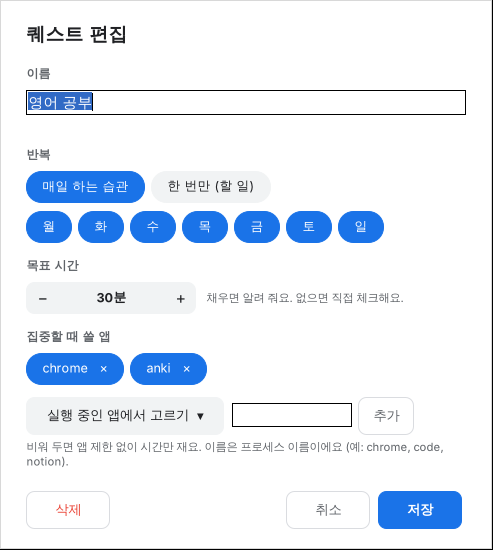
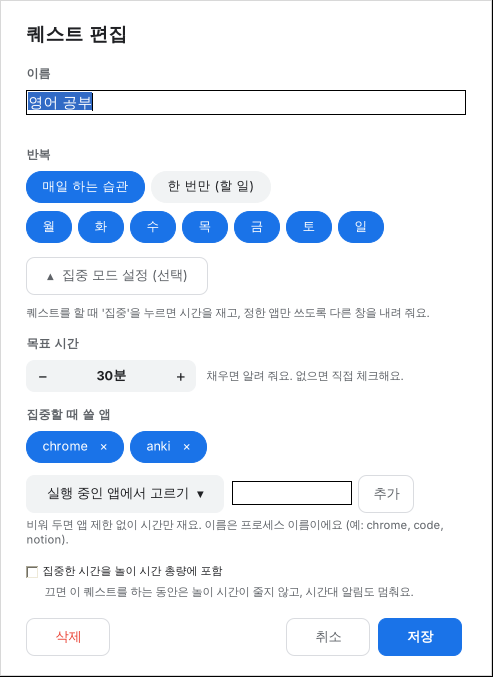
집중 모드를 부가 기능으로, 놀이 시간 포함 여부는 퀘스트마다 선택 (1.2.0)
- 퀘스트 창의 기본 동작을 체크로 바꾸고, 집중 버튼은 눈에 덜 띄게
- 퀘스트 편집 창의 목표 시간·허용 앱을 접어 둔 '집중 모드 설정 (선택)'으로 이동
- 퀘스트마다 '집중한 시간을 놀이 시간 총량에 포함' 옵션 (기본 끔).
  켜면 집중 중에도 총량·시간대가 평소처럼 적용된다
- README 갱신

Claude-Session: https://claude.ai/code/session_01NPN76vxiSvq4eHX32v76a1

diff --git a/src/QuestBoard.cs b/src/QuestBoard.cs
@@ -53,7 +53,7 @@ namespace PlayTimer
 
             int y = Ui.S(86);
             intro = new Panel { Location = new Point(pad, y), Size = new Size(width - pad * 2, Ui.S(58)), BackColor = Color.FromArgb(232, 240, 254) };
-            var introText = Ui.Label("컴퓨터를 켠 이유가 뭐예요? 할 퀘스트를 골라 ▶ 시작을 누르면,\n그 퀘스트에 정한 앱만 쓸 수 있는 집중 모드가 돼요.",
+            var introText = Ui.Label("컴퓨터를 켠 이유부터 확인해요. 끝낸 퀘스트는 동그라미를 눌러 체크하세요.\n필요하면 '집중'을 눌러 정한 앱만 쓰면서 시간을 잴 수도 있어요.",
                 Ui.Font(9.5f), Color.FromArgb(23, 78, 166));
             introText.Location = Ui.P(14, 10);
             intro.Controls.Add(introText);
@@ -243,7 +243,8 @@ namespace PlayTimer
 
             bool focusing = app.Focus != null && app.Focus.Quest == quest;
             bool done = quest.IsDone(app.Today);
-            startButton = new UiButton(focusing ? "그만" : "▶  시작", focusing ? ButtonKind.Ghost : ButtonKind.Primary, false);
+            // 집중은 부가 기능이라 눈에 덜 띄는 버튼으로 둔다. 기본 동작은 왼쪽 동그라미 체크.
+            startButton = new UiButton(focusing ? "집중 그만" : "집중", ButtonKind.Ghost, false);
             startButton.Height = Ui.S(32);
             startButton.FitToText();
             startButton.Height = Ui.S(32);
@@ -317,7 +318,8 @@ namespace PlayTimer
                 parts.Add(string.Format("{0} / 목표 {1}", Ui.Duration((int)(quest.Progress(day) / 60)), Ui.Duration(quest.TargetMinutes)));
             else if (quest.Progress(day) >= 60)
                 parts.Add(Ui.Duration((int)(quest.Progress(day) / 60)) + " 집중");
-            parts.Add(quest.Apps.Count == 0 ? "앱 제한 없음" : "앱: " + string.Join(", ", quest.Apps.ToArray()));
+            if (quest.Apps.Count > 0) parts.Add("앱: " + string.Join(", ", quest.Apps.ToArray()));
+            if (quest.CountsAsPlay) parts.Add("놀이 시간 포함");
             return string.Join("  ·  ", parts.ToArray());
         }
 
@@ -424,6 +426,9 @@ namespace PlayTimer
         readonly Chip[] dayChips = new Chip[7];
         readonly FlowLayoutPanel daysRow, appsRow;
         readonly DurationStepper target;
+        readonly UiButton focusToggle;
+        readonly FlowLayoutPanel focusBox;
+        readonly CheckBox playBox;
         public bool Deleted;
 
         public QuestEditor(Quest source, bool isNew) : base(Ui.Surface, true, false)
@@ -482,7 +487,26 @@ namespace PlayTimer
             daysRow.Margin = Ui.Pad(0, 0, 0, 14);
             stack.Controls.Add(daysRow);
 
-            stack.Controls.Add(Caption("목표 시간"));
+            // 집중 모드는 부가 기능이라, 쓸 때만 펼쳐서 설정한다.
+            focusToggle = new UiButton("", ButtonKind.Ghost, false);
+            focusToggle.Margin = Ui.Pad(0, 0, 0, 10);
+            focusToggle.Click += delegate { SetFocusOpen(!focusBox.Visible); };
+            stack.Controls.Add(focusToggle);
+            focusBox = new FlowLayoutPanel
+            {
+                FlowDirection = FlowDirection.TopDown,
+                WrapContents = false,
+                AutoSize = true,
+                AutoSizeMode = AutoSizeMode.GrowAndShrink,
+                BackColor = Color.Transparent,
+                Margin = Ui.Pad(0, 0, 0, 10)
+            };
+            var focusIntro = Ui.Label("퀘스트를 할 때 '집중'을 누르면 시간을 재고, 정한 앱만 쓰도록 다른 창을 내려 줘요.",
+                Ui.Font(8.5f), Ui.SubText);
+            focusIntro.MaximumSize = new Size(inner, 0);
+            focusIntro.Margin = Ui.Pad(0, 0, 0, 12);
+            focusBox.Controls.Add(focusIntro);
+            focusBox.Controls.Add(Caption("목표 시간"));
             var targetRow = Row();
             target = new DurationStepper(quest.TargetMinutes, 10, 600, m => m == 0 ? "없음" : Ui.Duration(m))
             {
@@ -494,9 +518,9 @@ namespace PlayTimer
             targetHint.Margin = Ui.Pad(0, 8, 0, 0);
             targetRow.Controls.Add(targetHint);
             targetRow.Margin = Ui.Pad(0, 0, 0, 14);
-            stack.Controls.Add(targetRow);
+            focusBox.Controls.Add(targetRow);
 
-            stack.Controls.Add(Caption("집중할 때 쓸 앱"));
+            focusBox.Controls.Add(Caption("집중할 때 쓸 앱"));
             appsRow = new FlowLayoutPanel
             {
                 AutoSize = true,
@@ -506,7 +530,7 @@ namespace PlayTimer
                 BackColor = Color.Transparent,
                 Margin = Ui.Pad(0, 0, 0, 6)
             };
-            stack.Controls.Add(appsRow);
+            focusBox.Controls.Add(appsRow);
 
             var addRow = Row();
             var running = new UiButton("실행 중인 앱에서 고르기  ▾", ButtonKind.Secondary, false);
@@ -525,12 +549,27 @@ namespace PlayTimer
             addRow.Controls.Add(appBox);
             addRow.Controls.Add(addApp);
             addRow.Margin = Ui.Pad(0, 0, 0, 4);
-            stack.Controls.Add(addRow);
+            focusBox.Controls.Add(addRow);
             var appHint = Ui.Label("비워 두면 앱 제한 없이 시간만 재요. 이름은 프로세스 이름이에요 (예: chrome, code, notion).",
                 Ui.Font(8.5f), Ui.SubText);
             appHint.MaximumSize = new Size(inner, 0);
-            appHint.Margin = Ui.Pad(0, 0, 0, 20);
-            stack.Controls.Add(appHint);
+            appHint.Margin = Ui.Pad(0, 0, 0, 14);
+            focusBox.Controls.Add(appHint);
+
+            playBox = new CheckBox
+            {
+                Text = "집중한 시간을 놀이 시간 총량에 포함",
+                Checked = quest.CountsAsPlay,
+                AutoSize = true,
+                ForeColor = Ui.Text,
+                Margin = Ui.Pad(0, 0, 0, 2)
+            };
+            focusBox.Controls.Add(playBox);
+            var playHint = Ui.Label("끄면 이 퀘스트를 하는 동안은 놀이 시간이 줄지 않고, 시간대 알림도 멈춰요.", Ui.Font(8.5f), Ui.SubText);
+            playHint.MaximumSize = new Size(inner, 0);
+            playHint.Margin = Ui.Pad(18, 0, 0, 6);
+            focusBox.Controls.Add(playHint);
+            stack.Controls.Add(focusBox);
 
             var buttons = new FlowLayoutPanel
             {
@@ -566,6 +605,7 @@ namespace PlayTimer
 
             SetDaily(quest.Daily);
             RebuildApps();
+            SetFocusOpen(quest.HasFocusSettings);
 
             Load += delegate
             {
@@ -614,6 +654,14 @@ namespace PlayTimer
             dailyChip.Selected = daily;
             onceChip.Selected = !daily;
             daysRow.Visible = daily;
+        }
+
+        void SetFocusOpen(bool open)
+        {
+            focusBox.Visible = open;
+            focusToggle.Text = (open ? "▴  " : "▾  ") + "집중 모드 설정 (선택)";
+            focusToggle.FitToText();
+            if (IsHandleCreated) ClientSize = Controls[0].GetPreferredSize(Size.Empty);
         }
 
         void AddApp(string name)
@@ -679,6 +727,7 @@ namespace PlayTimer
             }
             quest.Title = name;
             quest.TargetMinutes = target.Value;
+            quest.CountsAsPlay = playBox.Checked;
             DialogResult = DialogResult.OK;
             Close();
         }

diff --git a/src/PlayTimer.cs b/src/PlayTimer.cs
@@ -313,6 +313,8 @@ namespace PlayTimer
         // 일일 퀘스트를 끝내야 자유 시간이 열리는 설정이고, 아직 남았는가
         bool Gated()
         {
+            // 퀘스트를 하고 있는 동안은 "퀘스트 먼저" 잠금을 풀어 둔다.
+            if (focus != null) return false;
             return quests.LockFreeTime && quests.HasUnfinishedDaily(Today, TodayDow);
         }
 
@@ -361,7 +363,7 @@ namespace PlayTimer
 
         string WindowLineShort()
         {
-            if (focus != null) return "집중 중: " + focus.Quest.Title;
+            if (focus != null && !focus.Quest.CountsAsPlay) return "집중 중: " + focus.Quest.Title;
             var logical = Logical();
             if (Gated() && GraceRemaining() <= 0) return "일일 퀘스트를 끝내면 자유 시간이 열려요.";
             if (schedule.AlwaysAllowed()) return "시간대 제한 없이 총량만 적용돼요.";
@@ -393,7 +395,7 @@ namespace PlayTimer
             st.UsedSeconds = state.UsedSeconds;
             st.LimitSeconds = LimitSeconds();
             st.QuotaBinding = QuotaRemaining() <= WindowRemaining();
-            st.InWindow = focus != null || ((schedule.IsAllowed(logical) && !Gated()) || GraceRemaining() > 0);
+            st.InWindow = (focus != null && !focus.Quest.CountsAsPlay) || (schedule.IsAllowed(logical) && !Gated()) || GraceRemaining() > 0;
             st.WindowLine = "●  " + WindowLineShort();
             st.DayLabel = string.Format("{0}월 {1}일 ({2})", logical.Month, logical.Day, ScheduleForm.DayNames[(int)logical.DayOfWeek]);
             st.ExtensionsLeft = Math.Max(0, config.MaxExtensionsPerDay - state.ExtensionsUsed);
@@ -420,7 +422,7 @@ namespace PlayTimer
                 var names = quests.DailyFor(TodayDow).FindAll(q => !q.IsDone(Today)).ConvertAll(q => q.Title);
                 st.Tag = "퀘스트 먼저";
                 st.Reason = "오늘 퀘스트를 먼저 해요";
-                st.ReasonDetail = "남은 일일 퀘스트: " + string.Join(", ", names.ToArray()) + ". 퀘스트를 시작하면 알림이 멈춰요.";
+                st.ReasonDetail = "남은 일일 퀘스트: " + string.Join(", ", names.ToArray()) + ". 끝내고 체크하면 자유 시간이 열려요.";
             }
             else
             {
@@ -467,12 +469,15 @@ namespace PlayTimer
 
             if (focus != null)
             {
-                // 집중하는 동안은 놀이 시간(총량)을 쓰지 않고, 시간대·퀘스트 알림도 멈춘다.
                 bool wasReached = focus.Quest.TargetReached(Today);
                 focus.Elapsed += delta;
                 focus.Quest.AddProgress(Today, delta);
                 if (!wasReached && focus.Quest.TargetReached(Today))
                     Toast.Show("목표 시간을 채웠어요", focus.Quest.Title + " · 위쪽 막대에서 완료를 눌러 마무리하세요.", Ui.Green);
+            }
+            if (focus != null && !focus.Quest.CountsAsPlay)
+            {
+                // 놀이 시간에 넣지 않는 퀘스트: 총량을 쓰지 않고, 시간대·퀘스트 알림도 멈춘다.
                 outsideSeconds = 0;
                 prevRemaining = double.NaN;
                 if ((now - lastSave).TotalSeconds >= 30)
@@ -696,6 +701,7 @@ namespace PlayTimer
                     quest.Days = r.Days;
                     quest.TargetMinutes = r.TargetMinutes;
                     quest.Apps = r.Apps;
+                    quest.CountsAsPlay = r.CountsAsPlay;
                 }
             }
             SaveQuests();
@@ -713,7 +719,8 @@ namespace PlayTimer
             badWindow = IntPtr.Zero;
             if (board != null) board.WindowState = FormWindowState.Minimized;
             Toast.Show("집중 시작: " + quest.Title,
-                quest.Apps.Count > 0 ? "지금부터 " + string.Join(", ", quest.Apps.ToArray()) + "만 쓸 수 있어요." : "앱 제한 없이 시간을 재요.",
+                (quest.Apps.Count > 0 ? "지금부터 " + string.Join(", ", quest.Apps.ToArray()) + "만 쓸 수 있어요." : "앱 제한 없이 시간을 재요.")
+                + (quest.CountsAsPlay ? " 이 시간은 놀이 시간에 들어가요." : " 이 시간은 놀이 시간에서 빠져요."),
                 Ui.Green);
             NotifyQuestsChanged();
         }
@@ -892,7 +899,7 @@ namespace PlayTimer
 
             string tip = over ? "PlayTimer · " + Ui.Clock(-rem) + " 초과" : "PlayTimer · " + Ui.Clock(rem) + " 남음";
             Color bg = over ? Ui.Red : rem <= 600 ? Ui.Amber : Ui.Blue;
-            if (focus != null)
+            if (focus != null && (!focus.Quest.CountsAsPlay || !over))
             {
                 // 집중 중에는 초록 아이콘에 집중한 분(목표가 있으면 남은 분)을 표시한다.
                 double shown = focus.Quest.TargetMinutes > 0

diff --git a/src/Quests.cs b/src/Quests.cs
@@ -1,4 +1,4 @@
-using System;
+using System;
 using System.Collections.Generic;
 using System.IO;
 using System.Text;
@@ -14,6 +14,7 @@ namespace PlayTimer
         public bool[] Days = { true, true, true, true, true, true, true }; // DayOfWeek 순서(일=0)
         public int TargetMinutes;                                         // 0이면 목표 없음
         public List<string> Apps = new List<string>();                    // 집중할 때 허용할 앱(프로세스 이름)
+        public bool CountsAsPlay;                                         // 집중한 시간을 놀이 시간 총량에 넣을지
         public string DoneDay = "";                                       // 완료한 (논리적) 날짜
         public string ProgressDay = "";
         public double ProgressSeconds;
@@ -43,6 +44,12 @@ namespace PlayTimer
         {
             if (ProgressDay != day) { ProgressDay = day; ProgressSeconds = 0; }
             ProgressSeconds += seconds;
+        }
+
+        // 집중 모드 설정(목표 시간, 허용 앱, 놀이 시간 포함)을 하나라도 썼는가
+        public bool HasFocusSettings
+        {
+            get { return TargetMinutes > 0 || Apps.Count > 0 || CountsAsPlay; }
         }
 
         public bool TargetReached(string day)
@@ -176,6 +183,7 @@ namespace PlayTimer
                         cur.Apps.Clear();
                         foreach (var a in val.Split('|')) if (a.Trim().Length > 0) cur.Apps.Add(a.Trim());
                         break;
+                    case "play": cur.CountsAsPlay = val == "1"; break;
                     case "done": cur.DoneDay = val; break;
                     case "progressDay": cur.ProgressDay = val; break;
                     case "progress":
@@ -205,6 +213,7 @@ namespace PlayTimer
                 sb.AppendLine("days=" + new string(days));
                 sb.AppendLine("target=" + q.TargetMinutes);
                 sb.AppendLine("apps=" + string.Join("|", q.Apps.ToArray()));
+                sb.AppendLine("play=" + (q.CountsAsPlay ? "1" : "0"));
                 sb.AppendLine("done=" + q.DoneDay);
                 sb.AppendLine("progressDay=" + q.ProgressDay);
                 sb.AppendLine("progress=" + q.ProgressSeconds.ToString(System.Globalization.CultureInfo.InvariantCulture));

diff --git a/src/Focus.cs b/src/Focus.cs
@@ -1,4 +1,4 @@
-using System;
+using System;
 using System.Collections.Generic;
 using System.Diagnostics;
 using System.Drawing;
@@ -184,8 +184,12 @@ namespace PlayTimer
             bool warning = DateTime.UtcNow < warnUntil;
             if (warning) { note.Text = warnText; note.ForeColor = Color.FromArgb(255, 138, 128); }
             else if (reached) { note.Text = "목표 달성! 완료를 눌러 주세요"; note.ForeColor = Ui.Green; }
-            else if (f.Quest.Apps.Count > 0) { note.Text = "허용 앱 " + string.Join(", ", f.Quest.Apps.ToArray()); note.ForeColor = Ui.DarkSubText; }
-            else { note.Text = "앱 제한 없음"; note.ForeColor = Ui.DarkSubText; }
+            else
+            {
+                note.Text = (f.Quest.Apps.Count > 0 ? "허용 앱 " + string.Join(", ", f.Quest.Apps.ToArray()) : "앱 제한 없음")
+                    + (f.Quest.CountsAsPlay ? " · 놀이 시간 포함" : "");
+                note.ForeColor = Ui.DarkSubText;
+            }
             note.MaximumSize = new Size(Ui.S(280), Ui.S(20));
 
             var size = Controls[0].GetPreferredSize(Size.Empty);

diff --git a/src/AssemblyInfo.cs b/src/AssemblyInfo.cs
@@ -3,5 +3,5 @@
 [assembly: AssemblyTitle("PlayTimer")]
 [assembly: AssemblyProduct("PlayTimer")]
 [assembly: AssemblyDescription("PC방처럼 사용 시간을 재고, 시간이 끝나면 끄라고 조르는 타이머")]
-[assembly: AssemblyVersion("1.1.0.0")]
-[assembly: AssemblyFileVersion("1.1.0.0")]
+[assembly: AssemblyVersion("1.2.0.0")]
+[assembly: AssemblyFileVersion("1.2.0.0")]

diff --git a/README.md b/README.md
@@ -3,9 +3,9 @@
 PC를 켰으면 **원래 하려던 일부터** 하게 도와주는 윈도우용 습관·시간 관리 앱이에요.
 
 - **오늘의 퀘스트**: 매일 할 습관과 오늘 할 일을 게임 퀘스트처럼 적고 체크해요. 경험치, 레벨, 연속 달성일이 쌓여요.
-- **집중 모드**: 퀘스트를 시작하면 그 퀘스트에 정한 앱만 쓸 수 있어요. 다른 앱을 띄우면 잠깐 알려 준 뒤 내려 버려요.
 - **놀이 시간 제한**: 캘린더처럼 요일별로 "하루 몇 시간까지", "몇 시부터 몇 시까지"를 정하고, 시간이 끝나면 강제로 끄지 않고 끄라고 계속 알려요.
 - **퀘스트 먼저**: 일일 퀘스트를 끝내야 자유 시간이 열리게 할 수 있어요.
+- **집중 모드 (선택)**: 원하는 퀘스트에서만 켜서, 시간을 재고 정한 앱만 쓰도록 다른 창을 내려 줘요.
 
 ![오늘의 퀘스트](docs/quests.png)
 
@@ -53,10 +53,10 @@ irm https://raw.githubusercontent.com/APapeIsName/handle-my-pc/HEAD/install.ps1 
 
 ### 하루의 흐름
 
-1. PC를 켜면 **오늘의 퀘스트** 창이 먼저 떠요. "컴퓨터를 켠 이유"를 골라 **▶ 시작**을 누르세요.
-2. 집중 모드에서는 화면 위쪽에 진행 막대가 떠요. 그 퀘스트에 정한 앱만 쓸 수 있어요.
-3. 목표 시간을 채우면 알려 줘요. **완료**를 누르면 경험치를 받아요.
-4. 일일 퀘스트를 다 끝내면 자유 시간이 열려요. 자유 시간은 시간표(총량·시간대)에 맞춰 재요.
+1. PC를 켜면 **오늘의 퀘스트** 창이 먼저 떠요. 오늘 하려던 일을 확인하세요.
+2. 퀘스트를 끝내면 왼쪽 동그라미를 눌러 체크해요. 경험치를 받아요.
+3. 일일 퀘스트를 다 끝내면 자유 시간이 열려요. 자유 시간은 시간표(총량·시간대)에 맞춰 재요.
+4. 필요할 때만 퀘스트의 **집중** 버튼을 눌러 시간을 재고 딴짓을 막을 수 있어요.
 
 ### 트레이 아이콘
 
@@ -83,8 +83,10 @@ irm https://raw.githubusercontent.com/APapeIsName/handle-my-pc/HEAD/install.ps1 
 | 항목 | 설명 |
 |---|---|
 | 반복 | **매일 하는 습관**(요일 선택) 또는 **한 번만**(할 일). 할 일은 끝낸 다음 날 목록에서 사라져요 |
-| 목표 시간 | 집중 모드로 이만큼 채우면 알려 줘요. 없으면 직접 체크해요 |
-| 집중할 때 쓸 앱 | 이 퀘스트를 하는 동안 쓸 수 있는 앱. "실행 중인 앱에서 고르기"로 쉽게 넣을 수 있어요. 비워 두면 앱 제한 없이 시간만 재요 |
+| 집중 모드 설정 (선택) | 펼치면 아래 세 가지를 정할 수 있어요. 안 써도 퀘스트는 그대로 돼요 |
+| ・ 목표 시간 | 집중 모드로 이만큼 채우면 알려 줘요 |
+| ・ 집중할 때 쓸 앱 | 집중하는 동안 쓸 수 있는 앱. "실행 중인 앱에서 고르기"로 쉽게 넣을 수 있어요. 비워 두면 앱 제한 없이 시간만 재요 |
+| ・ 놀이 시간 총량에 포함 | 켜면 집중한 시간도 놀이 시간으로 쳐요. 끄면 그 시간은 놀이 시간이 줄지 않고 시간대 알림도 멈춰요 (기본: 끔) |
 
 ![퀘스트 편집](docs/quest-edit.png)
 
@@ -92,16 +94,17 @@ irm https://raw.githubusercontent.com/APapeIsName/handle-my-pc/HEAD/install.ps1 
 - 그날의 일일 퀘스트를 모두 끝내면 **연속 달성일**이 하루 늘어요. 하루를 건너뛰면 0부터 다시 시작해요.
 - 아래쪽 **"일일 퀘스트를 끝내야 자유 시간이 열려요"**를 켜 두면, 남은 일일 퀘스트가 있는 동안에는 자유 시간에도 "퀘스트 먼저" 알림이 떠요. 알림에서 **퀘스트 하기**를 누르면 바로 퀘스트 창으로 가요.
 
-### 집중 모드
+### 집중 모드 (선택)
 
-퀘스트의 **▶ 시작**을 누르면 집중 모드가 돼요.
+필요한 퀘스트에서만 쓰는 부가 기능이에요. 퀘스트 줄의 **집중** 버튼을 누르면 시작돼요.
 
 ![집중 막대](docs/focus-bar.png)
 
 - 화면 위쪽 막대에 퀘스트 이름, 진행 시간, 허용 앱이 보여요. 막대는 끌어서 옮길 수 있어요.
 - 허용 앱이 아닌 창을 맨 앞에 띄우면 막대에 경고가 뜨고, **3초 뒤 그 창이 최소화**돼요. 창을 닫거나 앱을 끄지는 않아요.
 - 작업 표시줄, 시작 메뉴, 탐색기, 작업 관리자 같은 윈도우 기본 화면은 항상 쓸 수 있어요.
-- 집중하는 동안은 놀이 시간 총량이 줄지 않고, 시간대·퀘스트 알림도 멈춰요.
+- 집중한 시간을 놀이 시간에 넣을지는 퀘스트마다 정해요. 넣지 않으면 그동안 놀이 시간이 줄지 않고 시간대 알림도 멈춰요. 넣으면 평소처럼 총량·시간대가 적용돼요.
+- 집중하는 동안은 "퀘스트 먼저" 알림이 뜨지 않아요.
 - **완료**를 누르면 퀘스트가 체크되고, **그만**을 누르면 진행 시간만 저장하고 끝나요.
 
 ### 시간 설정
